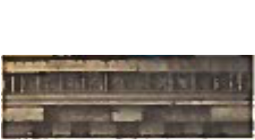
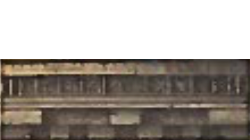
Balcony UI Logic almost done.

diff --git a/src/client/BalconyDrawer.java b/src/client/BalconyDrawer.java
@@ -8,7 +8,6 @@ import javafx.scene.canvas.Canvas;
 import javafx.scene.canvas.GraphicsContext;
 import javafx.scene.image.Image;
 import javafx.scene.image.WritableImage;
-import javafx.scene.paint.Color;
 
 import java.awt.image.BufferedImage;
 import java.util.Iterator;
@@ -21,13 +20,15 @@ public class BalconyDrawer {
         ClassLoader loader = BalconyDrawer.class.getClassLoader();
         Canvas free = new Canvas(255, 140);
         GraphicsContext gc = free.getGraphicsContext2D();
+        Image backImage = new Image(loader.getResourceAsStream("backbalcony.png"));
+        gc.drawImage(backImage,0,0,255,140);
 
         Iterator<Councilor> councilorIterator = balcony.councilorsIterator();
         int index = 0;
         while(councilorIterator.hasNext()) {
             Councilor councilor = councilorIterator.next();
             Image councImage = loadCouncilorImage(councilor, loader);
-            gc.drawImage(councImage,index*63.75,0,66.75,140);
+            gc.drawImage(councImage,15+index*56.25,5,56.25,140);
             index++;
         }
         Image balcImage = new Image(loader.getResourceAsStream("balcony.png"));
